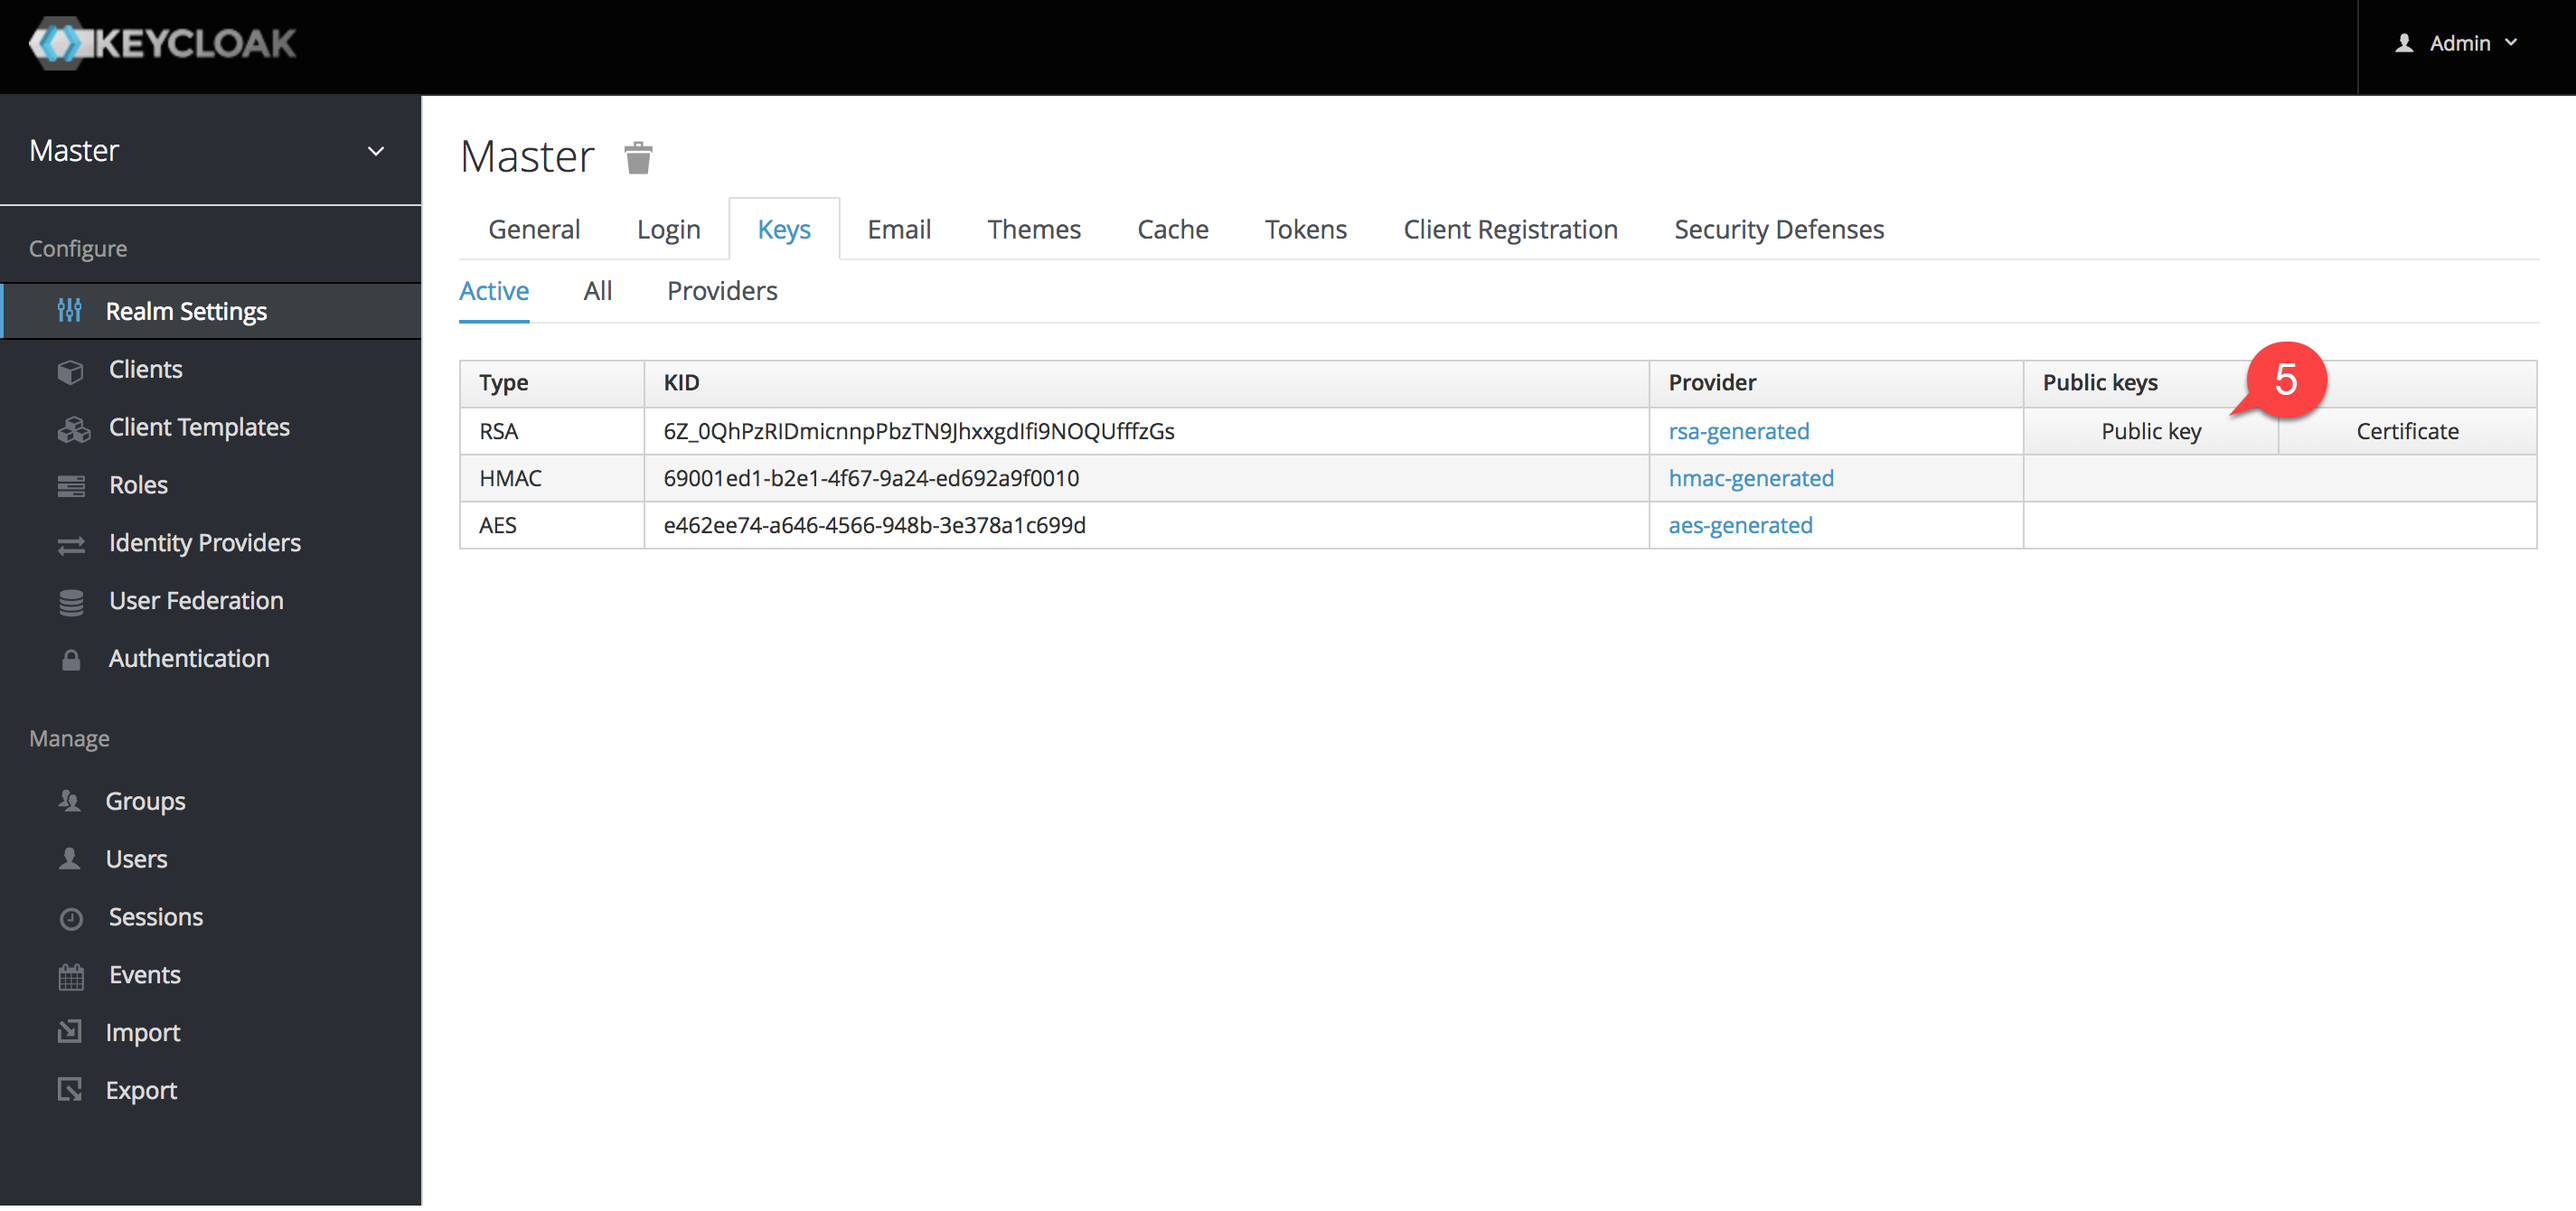
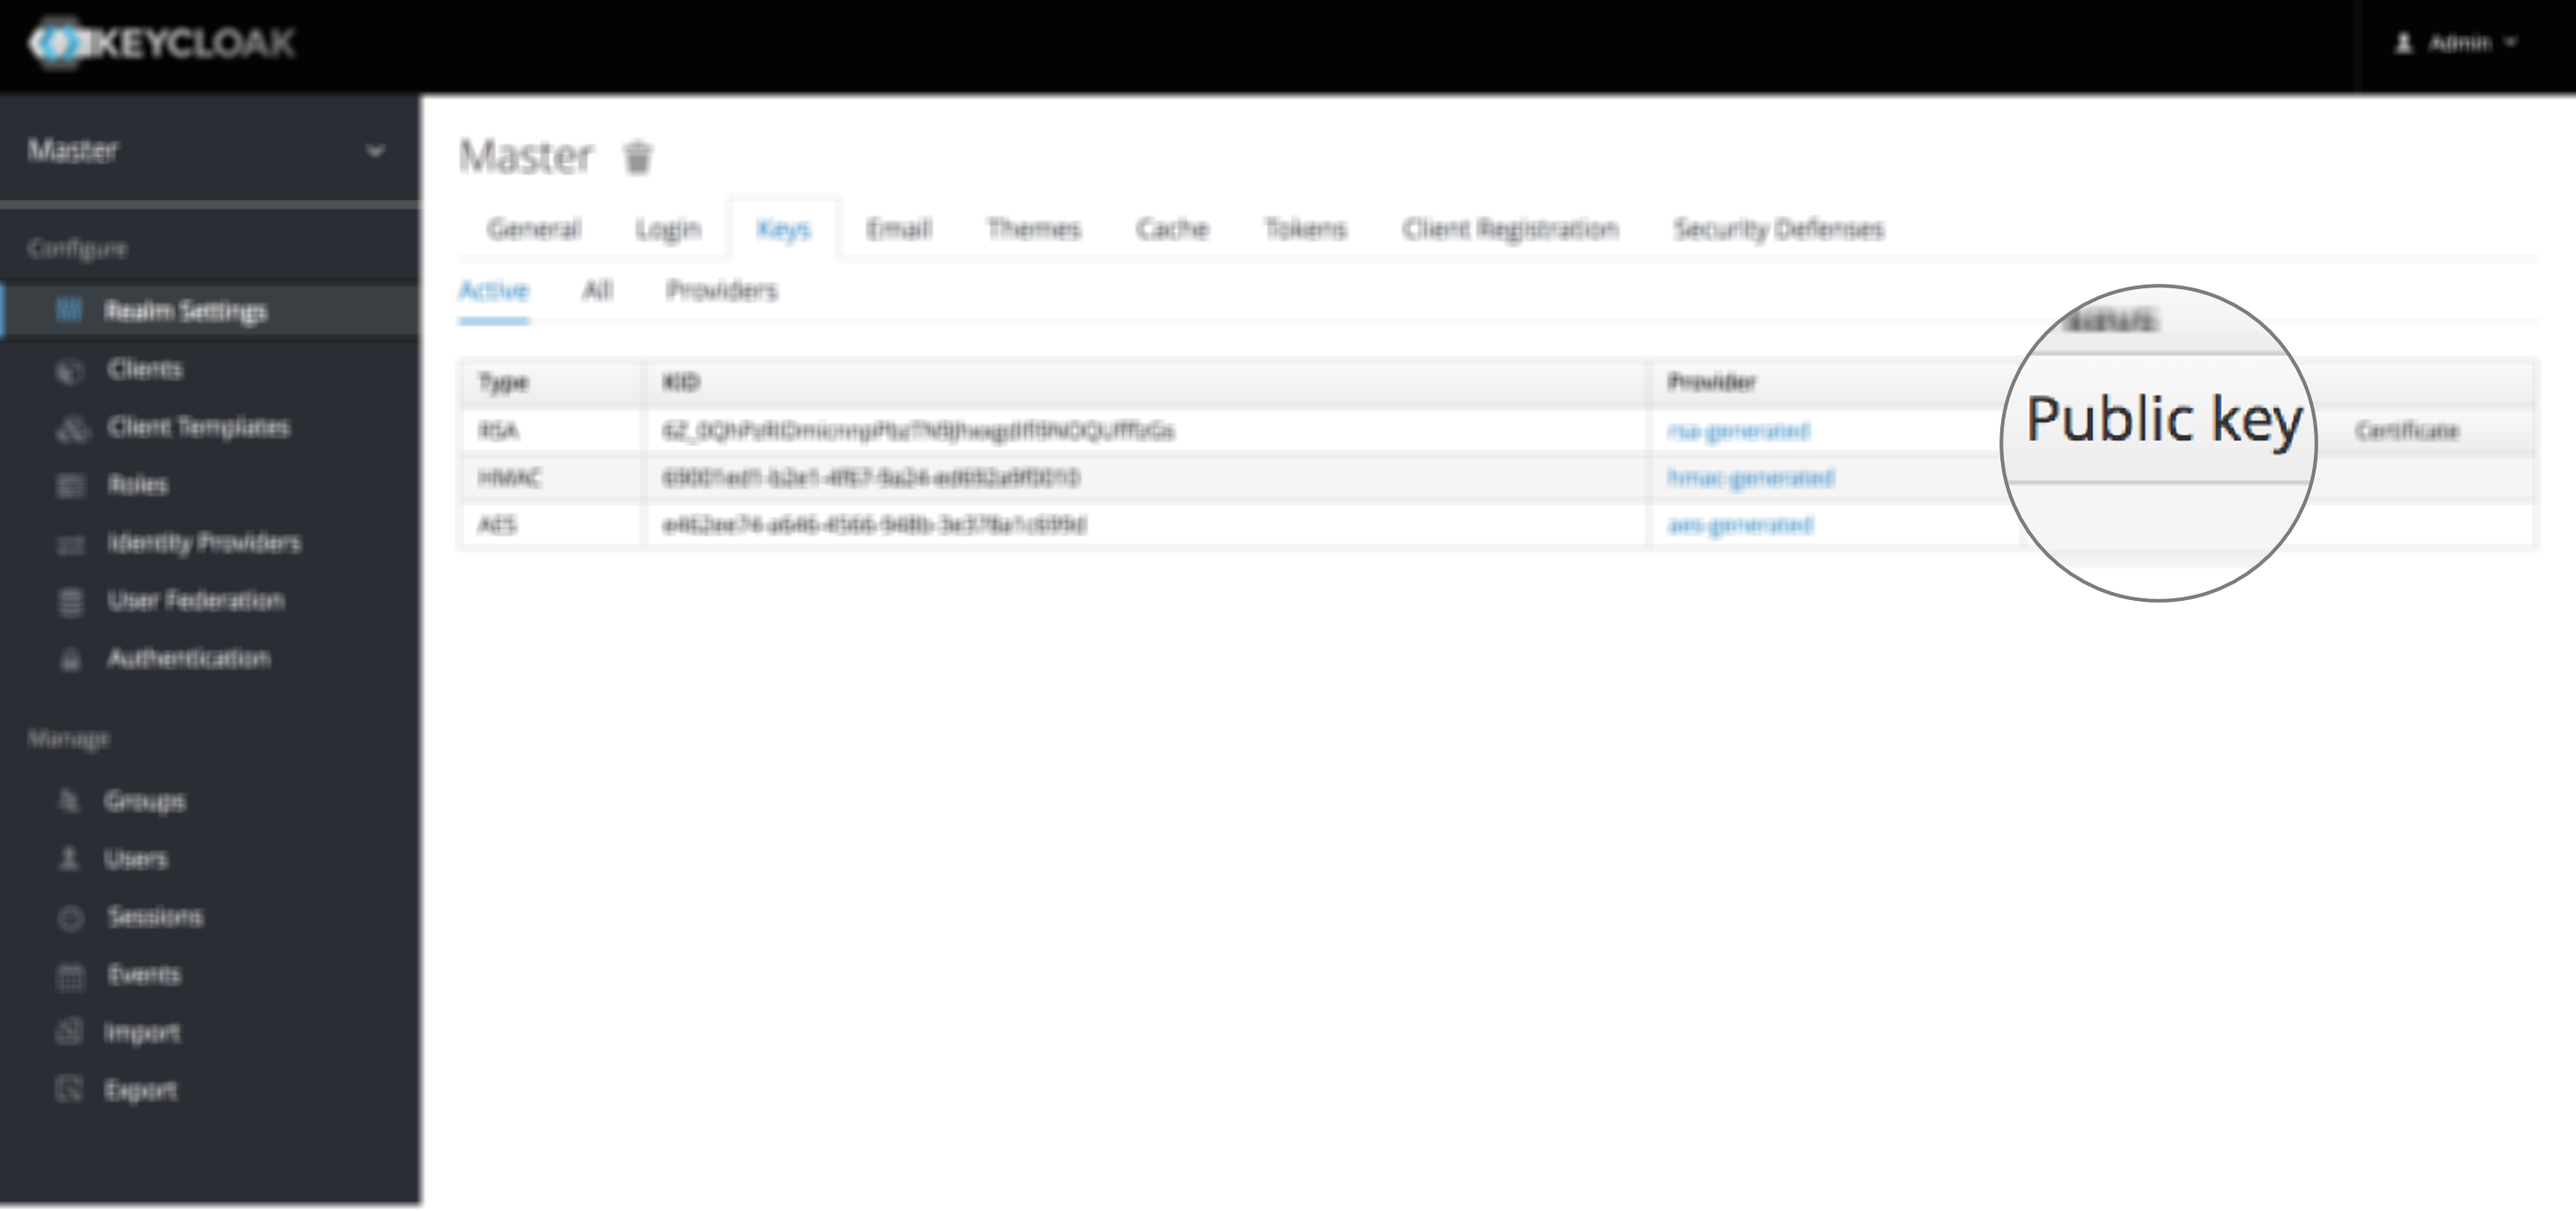
images keycloak

diff --git a/pages/developer-docs/configuring_sunbird/sso_public_key.md b/pages/developer-docs/configuring_sunbird/sso_public_key.md
@@ -34,23 +34,30 @@ The following process guides you in setting up the SSO authentication key:
       <td><img src="pages\developer-docs\configuring_sunbird\images\keycloak_login.png"></td>
   </tr>
     <tr>
-    <td> 3. Click on the dropdown and select appropriate realm<br>
-<b>Note:</b> By default the master realm is selected<br>
+    <td> On the left corner of your screen, you see a realm selector drop down 
+    3. Click on the <b>dropdown</b> and select appropriate realm<br>
+<b>Note:</b> Master realm is selected by default.<br>
 4.  Click on the "Keys" tab in the menu bar
      </td>
       <td><img src="pages\developer-docs\configuring_sunbird\images\realm_select.png"></td>
   </tr>
+      <tr>
+    <td> On the menu bar search for <b>keys tab</b>  
+4.  Click on the <b<Keys tab</b>
+     </td>
+      <td><img src="pages\developer-docs\configuring_sunbird\images\realm_select.png"></td>
+  </tr>
      <tr>
-    <td>
+    <td> In the table, search for <b>public key</b> button
         5. Click on the public key button <br>
-        <b>Note:</b> A pop up opens up
+        <b>Note:</b> A popup with a text string gets displayed on your screen
     </td>
     <td>
       <img src="pages\developer-docs\configuring_sunbird\images\public_key_btn.png">
       </td>
   </tr>
   <tr>
-    <td> 6. Copy the string and paste in your environment variable to setup public SSO key<br>
+    <td> 6. Copy the string and paste it in your environment variable xxxxx which is located at ../xxxx/setup.md<br> 
      </td>
       <td><img src="pages\developer-docs\configuring_sunbird\images\copy_token.png"></td>
   </tr>
